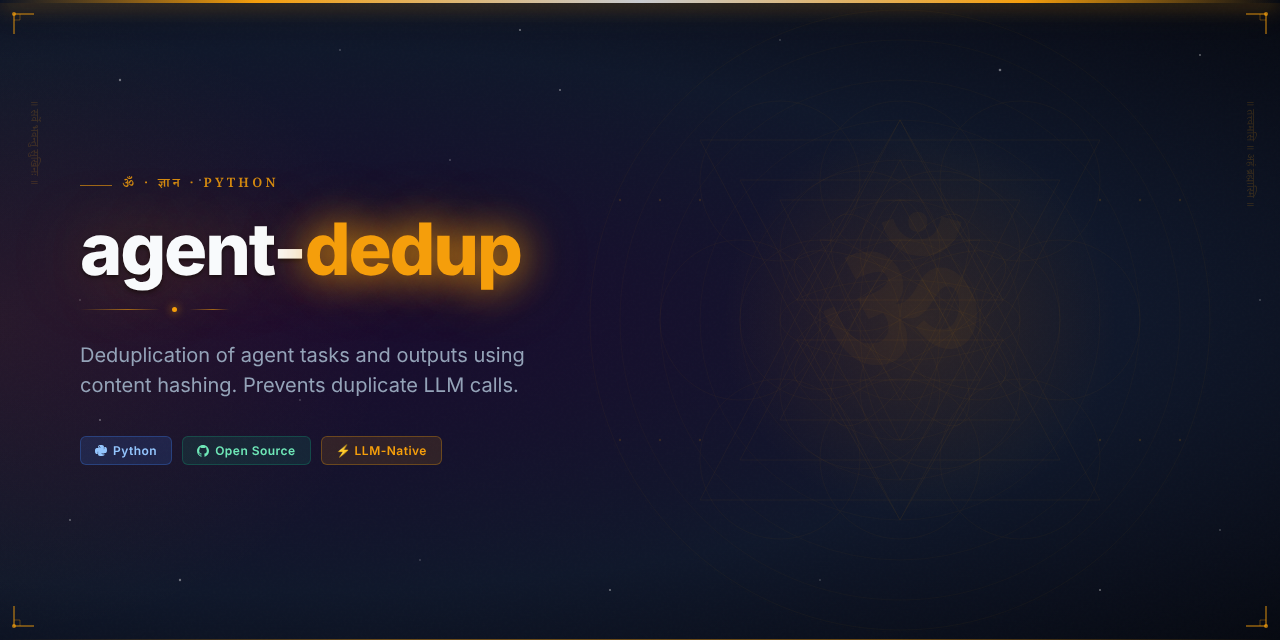
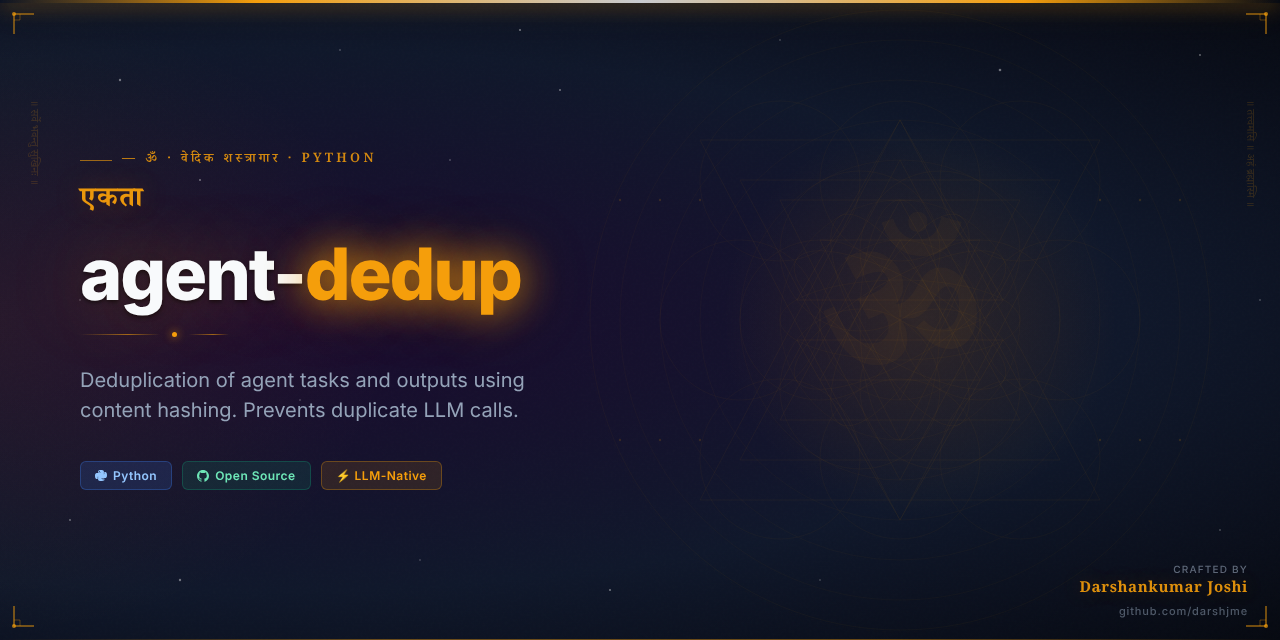
feat: add Vedic Arsenal hero image and updated README
Part of darshjme/arsenal — 100 production-grade Python libraries for LLM agents.
Vedic branding: ancient philosophy meets modern AI engineering.

diff --git a/README.md b/README.md
@@ -1,10 +1,12 @@
 <div align="center">
 
-<img src="assets/agent-dedup-hero.png" alt="agent-dedup — Vedic Arsenal" width="100%" />
+<img src="assets/agent-dedup-hero.png" alt="agent-dedup — Vedic Arsenal by Darshankumar Joshi" width="100%" />
 
 # ⚡ agent-dedup
 
-### *एकता* — Ekata — unity, removing the illusion of duplicates
+<h3><em>एकता</em></h3>
+
+> *Ekata — unity, removing the illusion of duplicates*
 
 **Deduplication of agent tasks and outputs using content hashing. Prevents duplicate LLM calls.**
 
@@ -39,6 +41,19 @@ Or clone directly:
 git clone https://github.com/darshjme/agent-dedup.git
 cd agent-dedup
 pip install -e .
+```
+
+## How It Works
+
+```mermaid
+flowchart LR
+    A[Input] --> B[agent-dedup]
+    B --> C{Process}
+    C -- Success --> D[Output]
+    C -- Error --> E[Handle / Retry]
+    E --> B
+    style B fill:#6b21a8,color:#fff
+    note["Dedup — Zero Dependencies"]
 ```
 
 ## Quick Start
@@ -90,7 +105,7 @@ MIT — use freely, build freely.
 
 <div align="center">
 
-**Built with ⚡ by [Darshankumar Joshi](https://github.com/darshjme)**
+**Built with ⚡ by [Darshankumar Joshi](https://github.com/darshjme)** · [@thedarshanjoshi](https://twitter.com/thedarshanjoshi)
 
 *"कर्मण्येवाधिकारस्ते मा फलेषु कदाचन"*
 *Your right is to action alone, never to the fruits thereof.*
